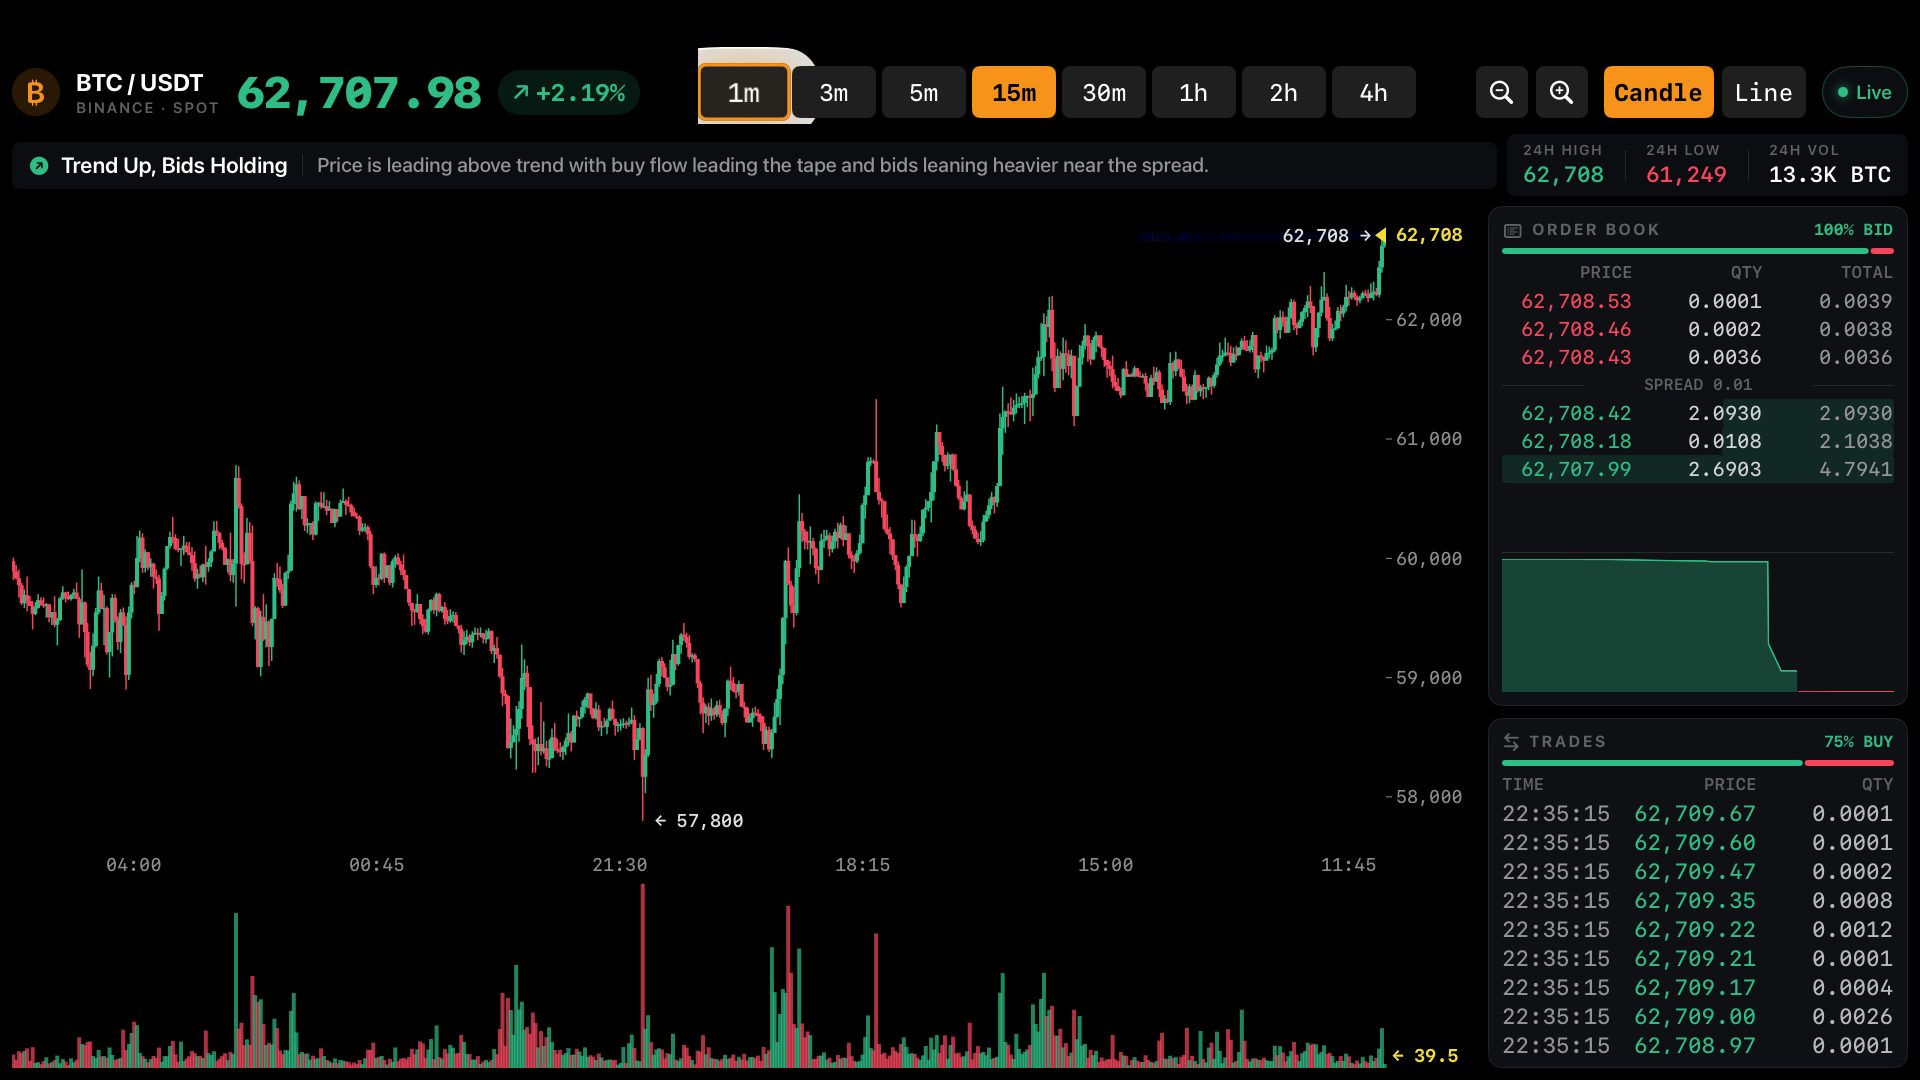
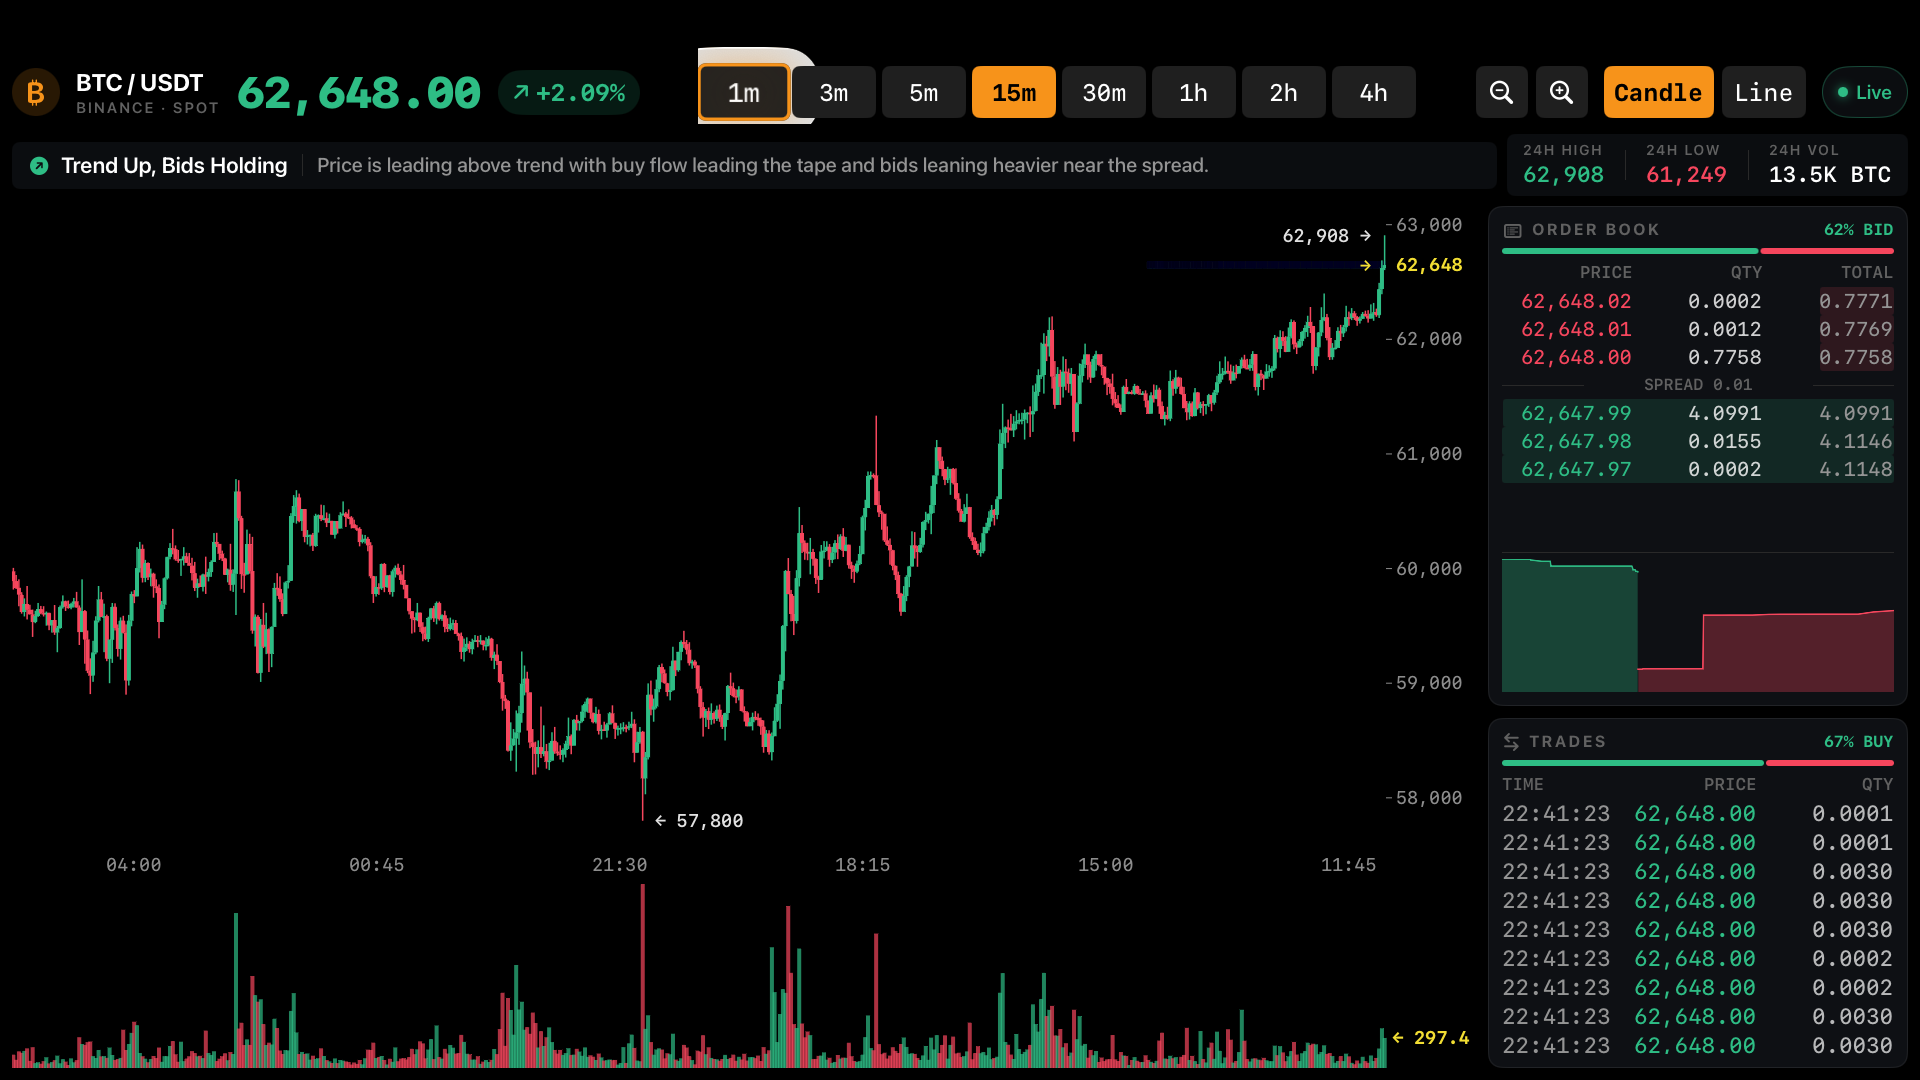
refactor(chart): style live-price marker like extremes labels
Replace the filled arrowhead at the chart edge (which overlapped the last
candle's body) with the same text arrow and 12pt offset the high/low
labels use, in terminal-yellow. Shared labelGap constant for all markers.

diff --git a/Sources/Views/ChartMarkersOverlayView.swift b/Sources/Views/ChartMarkersOverlayView.swift
@@ -2,9 +2,10 @@ import SwiftUI
 
 /// Terminal-style price annotations drawn over the candlestick canvas:
 ///
-/// - **Current price**: a yellow ◀ arrowhead at the chart's right edge, at the
-///   last close's Y position — visually continuing into the yellow price label
-///   drawn by `PriceAxisView` in the axis column beside it.
+/// - **Current price**: a yellow → arrow at the last close's Y position,
+///   offset left of the last candle with the same gap the extremes labels use
+///   (so it never sits on top of the candle body) — visually continuing into
+///   the yellow price label drawn by `PriceAxisView` in the axis column.
 /// - **Visible-range extremes**: the highest high and lowest low of the visible
 ///   klines, labeled beside the candle that set them ("62,660 →" / "← 61,333").
 ///   The label sits on whichever side of the candle has more room, with the
@@ -32,6 +33,8 @@ struct ChartMarkersOverlayView: View {
 
     private static let labelFont = Font.system(size: 18, weight: .semibold, design: .monospaced)
     private static let labelColor = Color(white: 0.88)
+    /// Horizontal gap between a label/arrow and the candle it points at.
+    private static let labelGap: CGFloat = 12
 
     var body: some View {
         let currentClose = klines.last?.close
@@ -43,15 +46,16 @@ struct ChartMarkersOverlayView: View {
             let layout = CandleLayout(count: klines.count, width: size.width)
             let scale = PriceScale(priceMin: priceMin, priceRange: priceRange)
 
-            // ── Current price arrowhead at the right edge ──────────────
+            // ── Current price arrow beside the last candle ─────────────
+            // Same glyph, gap, and anchoring as the extremes labels, in
+            // terminal-yellow — offset so it never overlaps the candle body.
             if let currentClose {
                 let y = scale.y(currentClose, in: size.height)
-                var arrow = Path()
-                arrow.move(to: CGPoint(x: size.width, y: y - 8))
-                arrow.addLine(to: CGPoint(x: size.width, y: y + 8))
-                arrow.addLine(to: CGPoint(x: size.width - 11, y: y))
-                arrow.closeSubpath()
-                context.fill(arrow, with: .color(AppTheme.markerYellow))
+                let centerX = layout.centerX(for: klines.count - 1)
+                let arrow = Text("→")
+                    .font(Self.labelFont)
+                    .foregroundColor(AppTheme.markerYellow)
+                context.draw(arrow, at: CGPoint(x: centerX - Self.labelGap, y: y), anchor: .trailing)
             }
 
             // ── Visible-range high / low labels ────────────────────────
@@ -64,11 +68,10 @@ struct ChartMarkersOverlayView: View {
                     .font(Self.labelFont)
                     .foregroundColor(Self.labelColor)
 
-                let gap: CGFloat = 12
                 if onLeft {
-                    context.draw(text, at: CGPoint(x: centerX - gap, y: y), anchor: .trailing)
+                    context.draw(text, at: CGPoint(x: centerX - Self.labelGap, y: y), anchor: .trailing)
                 } else {
-                    context.draw(text, at: CGPoint(x: centerX + gap, y: y), anchor: .leading)
+                    context.draw(text, at: CGPoint(x: centerX + Self.labelGap, y: y), anchor: .leading)
                 }
             }
         }
